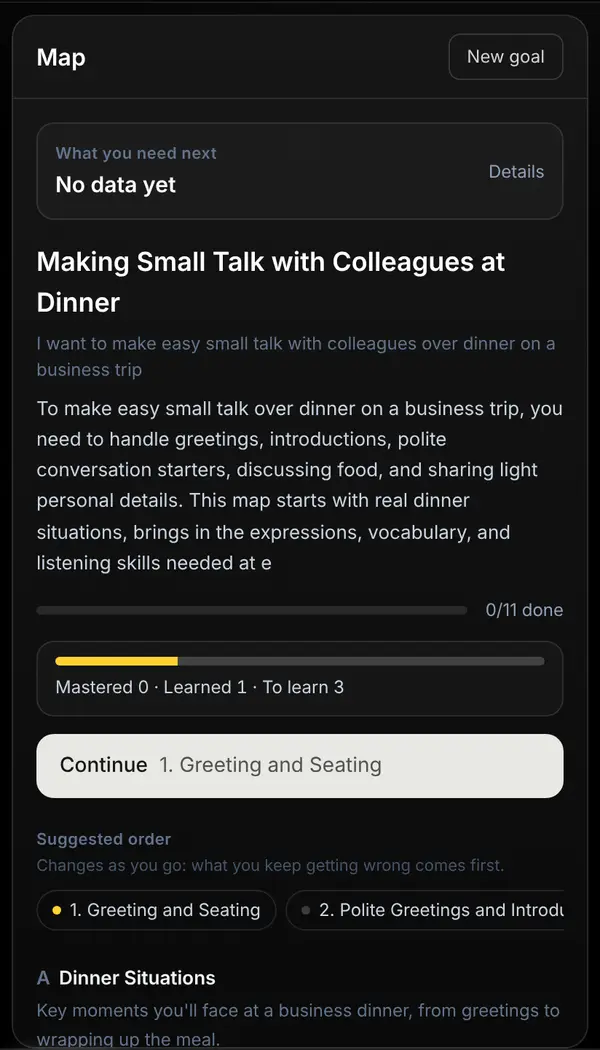
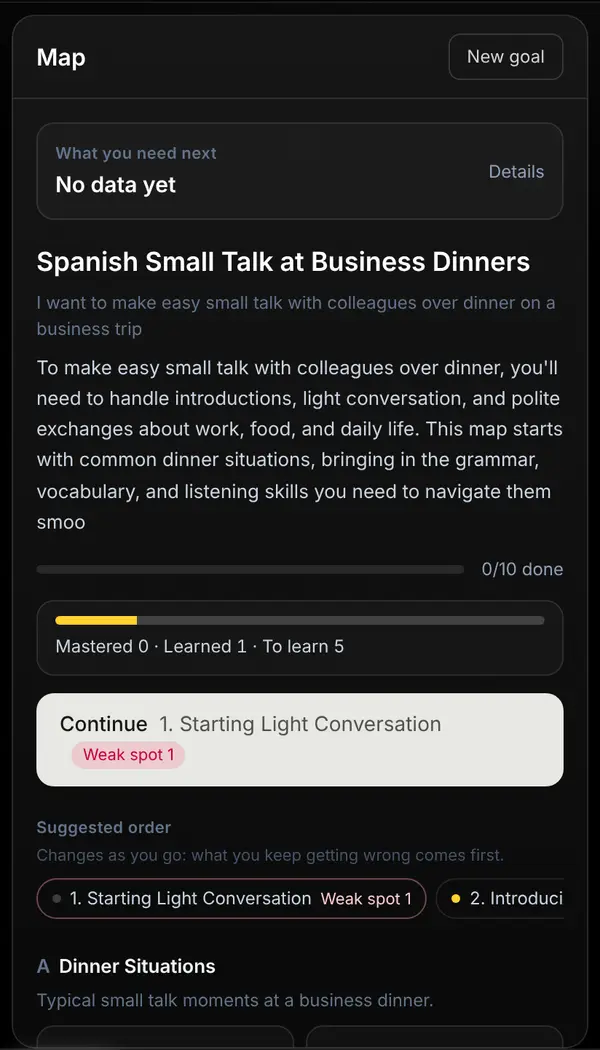
2.65 what's new: retake the weak-spot pictures for English, Russian and Hindi; record the OpenAI credit outage
Claude-Session: https://claude.ai/code/session_01CeyGTHa1fk1SQf1R1Hu5YN

Changed region(s): [[0.06, 0.2133, 0.96, 0.8838], [0.06, 0.9143, 0.93, 1.0]]

diff --git a/hub/roles/dev.md b/hub/roles/dev.md
@@ -21,10 +21,7 @@
 - 화면이 바뀌었으면 `inbox.md`에 `dev → qa` 한 줄 (무엇을 어떤 언어 조합으로 볼지).
 
 ## 열린 일
-- 2.65 "새로워진 점" 캡처 중 en·ru·hi의 `weak.webp`에 자주 틀림 칩이 없음(찍는 도중 OpenAI 호출이 전부 실패하기 시작함).
-  OpenAI가 돌아오면 `CAPTURE_RUN=3 node --experimental-strip-types scripts/capture-whats-new.mjs 2.65 --only en,ru,hi`로 다시 찍어 커밋.
-- 2026-10-11 16:38쯤부터 운영 서버의 OpenAI 호출(채팅·번역·TTS·지도)이 2초 만에 전부 실패. 코드가 아니라 계정(한도·결제) 쪽으로 보임,
-  사용자에게 확인 요청함. 지도의 '불러오기 실패'도 "지도를 그리지 못했어요"로 나오는 문구 문제는 덤으로 남김.
+- 지도를 불러오기만 실패해도 "지도를 그리지 못했어요"로 나옴(문구 문제, 작음).
 - 통화 "이렇게 말하려던 거죠?"(meant)는 main에 있음(84de02a 외). 서버(튜터 판단·받아쓰기 그대로 적기)는 배포됨,
   카드는 2.65 빌드부터(2.64는 같은 문장을 "이렇게 말할 수 있어요"로 받음). 다음: 채팅에도 같은 되살리기.
 - 자주 틀리는 것 → 지도, 진행 따라 바뀌는 추천 순서는 main에 있음(f89b2d9 외). 서버(채팅·통화 교정 문장에서 실수 종류 읽기,

diff --git a/hub/log/2026-10.md b/hub/log/2026-10.md
@@ -117,3 +117,10 @@
   버전 2.65 (79). 출시 노트 14개 언어는 PR #6.
 - 남긴 일: en·ru·hi weak 캡처 다시(OpenAI 복구 후), PR #5·#6 머지 → v2.65 태그(store), 기기 확인(qa). 운영 OpenAI 호출 전부 실패 중 — 사용자 확인 대기.
 - 커밋/브랜치: main `1c53435` + 캡처, 브랜치 `store/release-notes-2.65`(PR #6)
+
+## 2026-10-11 · dev · OpenAI 크레딧 소진으로 AI 전부 멈춤 → 충전 후 복구, 캡처 마무리
+- 한 일: 16:38쯤부터 운영 서버의 채팅·번역·TTS·지도가 2초 만에 전부 실패. 원인은 OpenAI 선불 잔액 -$0.04(월 한도 $100와는 별개).
+  사용자가 충전해서 17:10쯤 복구 확인. 자동 충전(잔액 $5 밑이면 $20) 켜기를 권함. en·ru·hi 자주 틀림 캡처를 다시 찍음.
+  en(스페인어 학습) 샘플 문장의 "Ayer yo soy…"가 시제까지 바뀌어 다른 종류의 실수로 읽혀서, ser/estar만 틀린 문장 세 개로 바꿈.
+- 남긴 일: PR #5·#6 머지 → v2.65 태그(store), 기기 확인(qa).
+- 커밋/브랜치: main

diff --git a/hub/STATE.md b/hub/STATE.md
@@ -41,4 +41,4 @@
 
 ## 사용자에게 물어볼 것
 
-- 운영 서버 OpenAI 호출이 2026-10-11 16:38쯤부터 전부 실패 — OpenAI 한도·결제 확인 요청함.
+- (없음)
